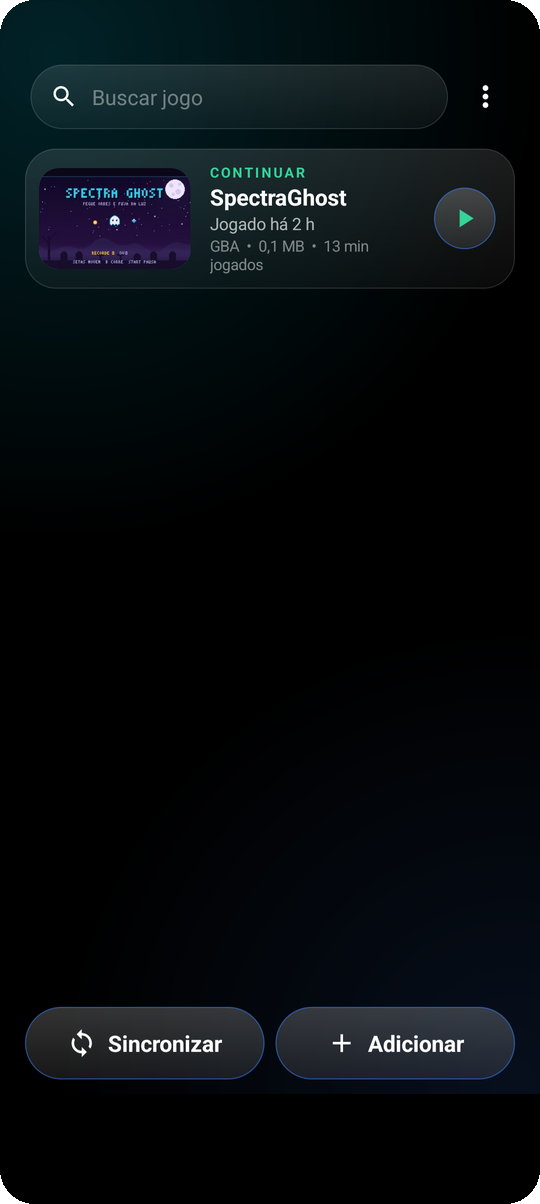
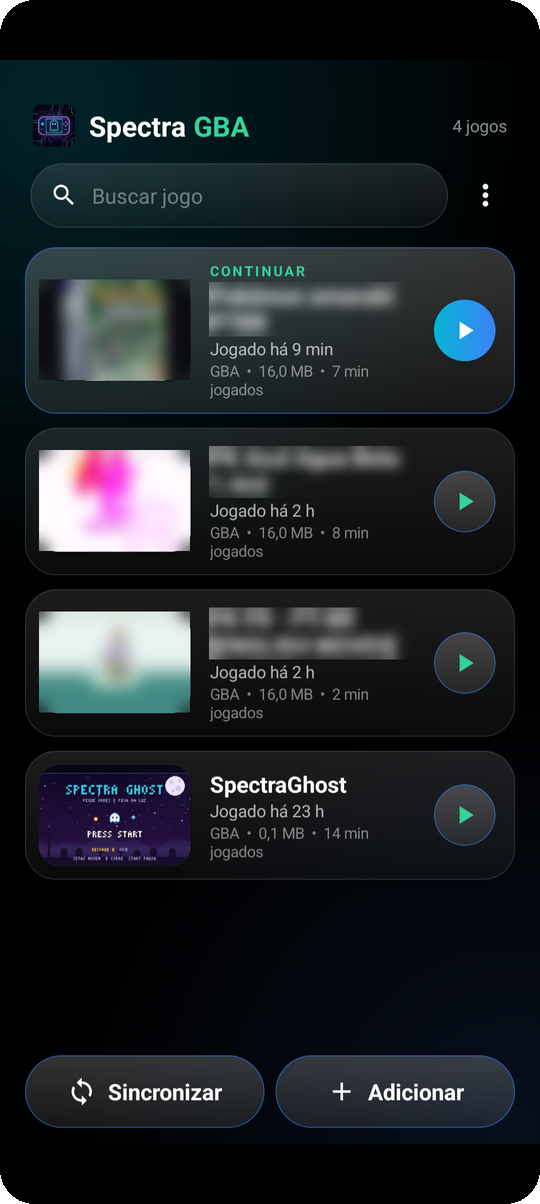
Add files via upload

diff --git a/README.md b/README.md
@@ -1,5 +1,11 @@
 <p align="center">
-  <img src="banner.png" alt="Spectra GBA">
+  <img src="logo.png" width="120" alt="Spectra GBA">
+</p>
+
+<h1 align="center">Spectra GBA</h1>
+
+<p align="center">
+  Emulador de Game Boy Advance para Android, feito para jogar no celular com conforto.
 </p>
 
 <p align="center">
@@ -26,14 +32,8 @@
 </p>
 
 <p align="center">
-  <img src="print5.png" width="98%">
+  <img src="banner.png" width="98%">
 </p>
-
-<details>
-  <summary><b>Ver todas as configurações</b></summary>
-  <br>
-  <p align="center"><img src="config.png" width="98%"></p>
-</details>
 
 ## Sobre o projeto
 
@@ -42,27 +42,30 @@ O Spectra GBA nasceu da vontade de ter um emulador simples de usar, com visual c
 ## Funções
 
 **Jogo**
+- Modo Link: dois jogos rodando ao mesmo tempo no mesmo celular, ligados por um cabo virtual, para trocar e batalhar
 - Save states com miniatura, salvamento automático e "retomar de onde parou"
 - Rewind para voltar alguns segundos no tempo
-- Turbo de 2x a 4x
+- Velocidade de 0.2x (câmera lenta) até 16x
 - Cheats nos formatos GameShark, Action Replay e CodeBreaker
 - Conquistas do RetroAchievements
 
 **Controles**
 - Botões na tela totalmente ajustáveis: posição, tamanho, estilo e cor
+- 7 estilos de botão, entre eles Vidro, Neon, Relevo 3D e Retrô
 - Direcional em setas, cruz clássica ou joystick
+- Barra de atalhos que pode ser movida, redimensionada ou escondida
 - Suporte a controle Bluetooth, com mapeamento de botões
-- Os botões da tela somem sozinhos quando um controle é conectado
 
 **Visual**
-- 10 filtros de imagem, entre eles LCD, Scanlines, Verde GB e Pocket
-- Temas de cores e fundo personalizável ao redor da tela do jogo
-- Tela cheia ou ampliada no modo horizontal
+- 14 filtros de imagem, entre eles LCD, Scanlines, CRT, Suave e Conforto (menos luz azul)
+- 12 fundos para a tela do jogo, além de cor sólida ou imagem da sua galeria
+- Temas de cores e tela cheia ou ampliada no modo horizontal
 
 **Saves e biblioteca**
 - Saves .sav compatíveis com PKHeX, com opção de exportar e importar
 - Backup dos saves no Google Drive
 - Biblioteca com busca, capas e tempo de jogo
+- Aviso automático quando sai uma versão nova
 - Tela de início original do GBA, usando a sua própria BIOS (opcional)
 
 ## Requisitos
@@ -76,6 +79,8 @@ O Spectra GBA nasceu da vontade de ter um emulador simples de usar, com visual c
 2. Abra o arquivo e permita a instalação, se o Android pedir
 3. No app, toque em **Sincronizar** para encontrar seus jogos ou em **Adicionar** para escolher um arquivo
 
+Para atualizar, é só instalar a versão nova por cima. Seus jogos, saves e configurações continuam. A partir da versão 2.6, o próprio app avisa quando houver atualização.
+
 ## Perguntas frequentes
 
 **O app vem com jogos?**
@@ -86,6 +91,9 @@ Não. Ela é opcional e serve para exibir a tela de início original do console.
 
 **Meus saves são compatíveis com outros emuladores?**
 Sim. O formato .sav é o mesmo usado pela maioria dos emuladores e pelo PKHeX.
+
+**Como funciona o Modo Link?**
+No menu da biblioteca, escolha Modo Link e selecione dois jogos. Os dois rodam juntos, e você alterna entre eles tocando no nome do jogador. Para trocar ou batalhar, use a opção de conexão por cabo dentro de cada jogo. Faça backup dos saves antes de usar.
 
 ## Encontrou um problema?
 
